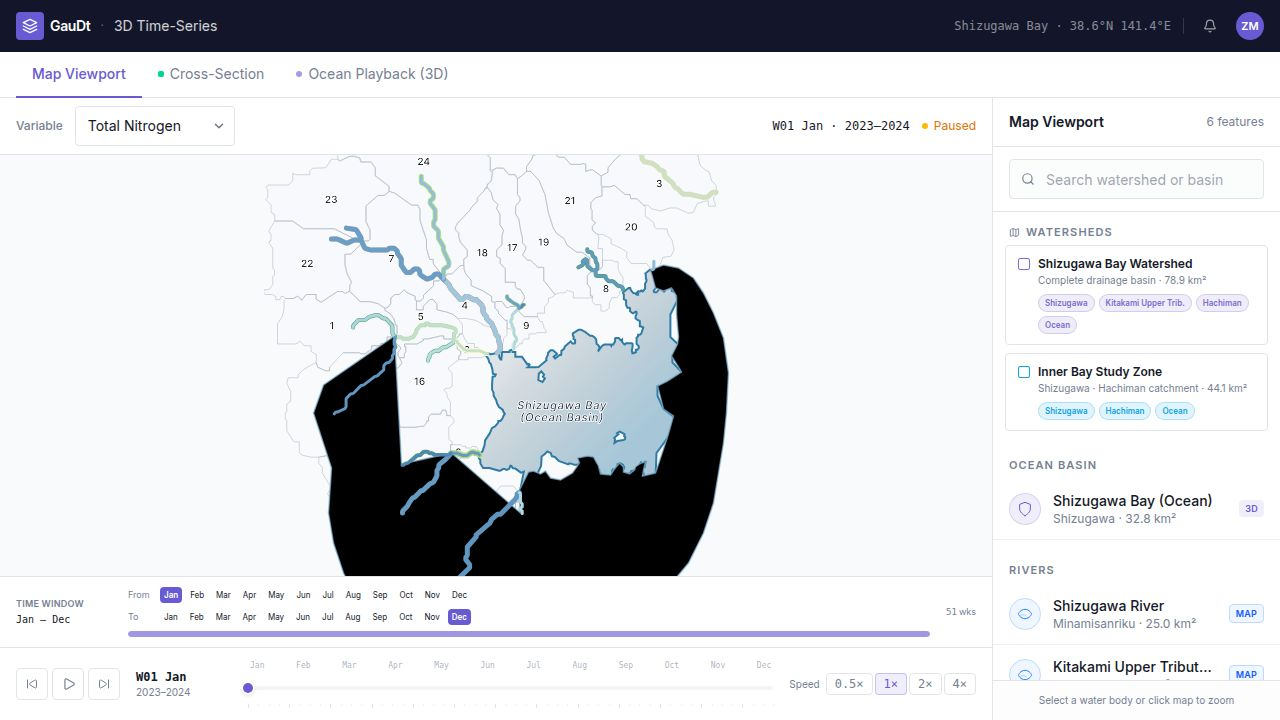
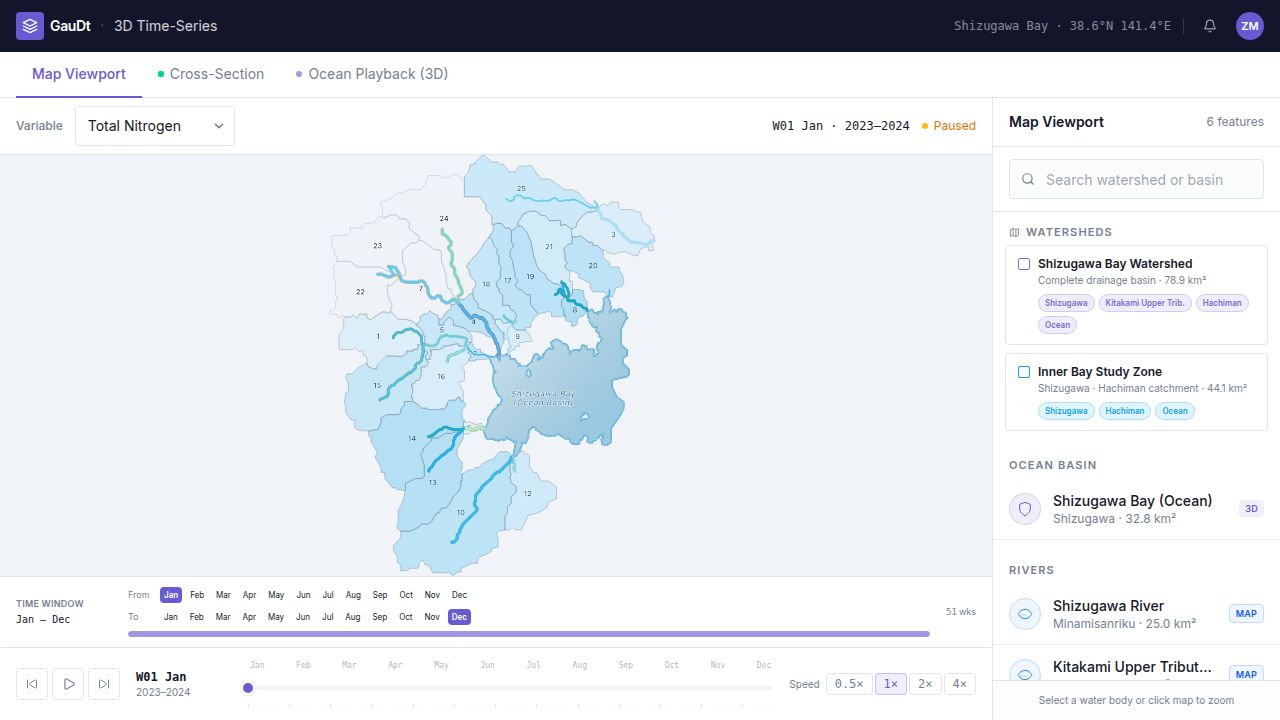
Improve river visualization with channel shape and light theme
Refactor MapLibreMap.tsx to introduce a sinusoidal channel mask, update the grid view to a light theme with axis labels and a color scale bar, and add new assets.

Replit-Commit-Author: Agent
Replit-Commit-Session-Id: 8693827f-14b7-436d-9b9c-498ef55eabf1
Replit-Commit-Checkpoint-Type: full_checkpoint
Replit-Commit-Event-Id: 4d6cc3bb-af46-47c2-bafe-19ac96c96382
Replit-Commit-Screenshot-Url: https://storage.googleapis.com/screenshot-production-us-central1/90904f4e-0e70-46ab-996a-5da4e407b058/8693827f-14b7-436d-9b9c-498ef55eabf1/CcHeKlI
Replit-Helium-Checkpoint-Created: true

Changed region(s): [[0.2188, 0.2139, 0.5938, 0.825], [0.5, 0.2139, 0.5625, 0.275]]

diff --git a/artifacts/shizugawa-dashboard/src/components/MapLibreMap.tsx b/artifacts/shizugawa-dashboard/src/components/MapLibreMap.tsx
@@ -59,6 +59,33 @@ function interpolateColor(stops: string[], t: number): string {
   return `#${r.toString(16).padStart(2, "0")}${g.toString(16).padStart(2, "0")}${b.toString(16).padStart(2, "0")}`;
 }
 
+// ── River channel mask (sinusoidal meander shape per river) ──────────────────
+
+function buildChannelMask(riverId: string): boolean[][] {
+  const seed = riverId === "shizugawa" ? 0 : riverId === "kitakami" ? 1 : 2;
+  const phase = seed * (Math.PI * 2 / 3);
+  const mask: boolean[][] = Array.from({ length: RIVER_ROWS }, () =>
+    new Array(RIVER_COLS).fill(false));
+  for (let col = 0; col < RIVER_COLS; col++) {
+    const t = col / (RIVER_COLS - 1);
+    const center = (RIVER_ROWS - 1) / 2 + (RIVER_ROWS * 0.28) * Math.sin(t * Math.PI * 1.5 + phase);
+    const halfW = 1.6 + 1.1 * Math.sin(t * Math.PI);
+    for (let row = 0; row < RIVER_ROWS; row++) {
+      if (Math.abs(row - center) <= halfW) mask[row][col] = true;
+    }
+  }
+  return mask;
+}
+
+const CHANNEL_MASKS: Record<string, boolean[][]> = {
+  shizugawa: buildChannelMask("shizugawa"),
+  kitakami:  buildChannelMask("kitakami"),
+  hachiman:  buildChannelMask("hachiman"),
+};
+
+// km per column (18 km total for 36 columns)
+const KM_PER_COL = 18 / RIVER_COLS;
+
 function computeOceanMean(week: number): number {
   const data = generateWeekData(week);
   let sum = 0, count = 0;
@@ -368,77 +395,120 @@ export default function MapLibreMap({
         })}
       </svg>
 
-      {/* Pixel grid view overlay */}
-      {showGrid && selectedRiver && gridData && (
-        <div className="absolute inset-0 bg-[#0f1923] flex flex-col p-4 gap-3">
-          {/* Header */}
-          <div className="flex items-center justify-between flex-shrink-0">
-            <div className="text-[10px] font-semibold text-slate-400 uppercase tracking-widest">
-              ← Upstream
-            </div>
-            <div className="text-center">
-              <div className="text-xs font-semibold text-white capitalize">
-                {selectedRiver.charAt(0).toUpperCase() + selectedRiver.slice(1)} River
-              </div>
-              <div className="text-[9px] text-slate-400">{variableLabel} · pixel grid ({RIVER_ROWS}×{RIVER_COLS})</div>
-            </div>
-            <div className="text-[10px] font-semibold text-slate-400 uppercase tracking-widest">
-              Downstream →
-            </div>
-          </div>
-
-          {/* Grid */}
-          <div className="flex-1 min-h-0 flex flex-col gap-0.5">
-            {/* Row labels */}
-            <div className="flex gap-px" style={{ paddingLeft: "2.5rem" }}>
-              {Array.from({ length: RIVER_COLS }, (_, col) => (
-                col % 6 === 0 ? (
-                  <div key={col} className="text-[7px] text-slate-500 font-mono"
-                    style={{ width: `${100 / RIVER_COLS}%`, flexShrink: 0 }}>
-                    {col}
-                  </div>
-                ) : <div key={col} style={{ width: `${100 / RIVER_COLS}%`, flexShrink: 0 }} />
-              ))}
-            </div>
-
-            {/* Pixel rows */}
-            {Array.from({ length: RIVER_ROWS }, (_, row) => (
-              <div key={row} className="flex items-center gap-px flex-1 min-h-0">
-                <div className="text-[8px] text-slate-500 font-mono w-8 flex-shrink-0 text-right pr-1">
-                  {row === 0 ? "surf" : row === RIVER_ROWS - 1 ? "bot" : row % 3 === 0 ? `r${row}` : ""}
+      {/* Pixel grid view overlay — light theme, channel shape, km axis */}
+      {showGrid && selectedRiver && gridData && (() => {
+        const mask = CHANNEL_MASKS[selectedRiver] ?? CHANNEL_MASKS.shizugawa;
+        // SVG coordinate system: each cell = 1 unit
+        const ML = 4.2; // left margin for Y labels
+        const MR = 0.6;
+        const MT = 0.8;
+        const MB = 3.8; // bottom margin for X labels + scale bar
+        const VW = ML + RIVER_COLS + MR;
+        const VH = MT + RIVER_ROWS + MB;
+        // Unique gradient ID per river to avoid collisions
+        const gradId = `cscale-${selectedRiver}`;
+        return (
+          <div className="absolute inset-0 bg-[#f8fafc] flex flex-col">
+            {/* Title bar */}
+            <div className="flex-shrink-0 flex items-center justify-between px-5 pt-3 pb-1">
+              <div>
+                <div className="text-xs font-semibold text-gray-700 capitalize">
+                  {selectedRiver.charAt(0).toUpperCase() + selectedRiver.slice(1)} River
                 </div>
-                {Array.from({ length: RIVER_COLS }, (_, col) => {
-                  const val = gridData[row]?.[col] ?? 0;
-                  const color = interpolateColor(stops, Math.max(0, Math.min(1, val)));
+                <div className="text-[9px] text-gray-400 mt-0.5">Raster channel · upstream → downstream</div>
+              </div>
+              <div className="text-[9px] text-gray-400 font-medium tracking-wide">
+                {RIVER_ROWS} × {RIVER_COLS} grid
+              </div>
+            </div>
+
+            {/* SVG grid */}
+            <div className="flex-1 min-h-0 px-4 pb-2">
+              <svg
+                width="100%" height="100%"
+                viewBox={`0 0 ${VW} ${VH}`}
+                preserveAspectRatio="xMidYMid meet"
+              >
+                <defs>
+                  <linearGradient id={gradId} x1="0" x2="1" y1="0" y2="0">
+                    {stops.map((c, i) => (
+                      <stop key={i} offset={`${(i / (stops.length - 1)) * 100}%`} stopColor={c} />
+                    ))}
+                  </linearGradient>
+                </defs>
+
+                {/* White grid background */}
+                <rect x={ML} y={MT} width={RIVER_COLS} height={RIVER_ROWS} fill="white"
+                  stroke="#e2e8f0" strokeWidth={0.04} rx={0.1} />
+
+                {/* Subtle column grid lines */}
+                {Array.from({ length: RIVER_COLS + 1 }, (_, i) => (
+                  <line key={i} x1={ML + i} y1={MT} x2={ML + i} y2={MT + RIVER_ROWS}
+                    stroke="#e2e8f0" strokeWidth={0.03} />
+                ))}
+                {/* Subtle row grid lines */}
+                {Array.from({ length: RIVER_ROWS + 1 }, (_, i) => (
+                  <line key={i} x1={ML} y1={MT + i} x2={ML + RIVER_COLS} y2={MT + i}
+                    stroke="#e2e8f0" strokeWidth={0.03} />
+                ))}
+
+                {/* Channel cells */}
+                {Array.from({ length: RIVER_ROWS }, (_, row) =>
+                  Array.from({ length: RIVER_COLS }, (_, col) => {
+                    const inCh = mask[row]?.[col] ?? false;
+                    if (!inCh) return null;
+                    const val = gridData[row]?.[col] ?? 0;
+                    return (
+                      <rect key={`${row}-${col}`}
+                        x={ML + col + 0.03} y={MT + row + 0.03}
+                        width={0.94} height={0.94}
+                        fill={interpolateColor(stops, Math.max(0, Math.min(1, val)))}
+                        rx={0.08}
+                      />
+                    );
+                  })
+                )}
+
+                {/* Y-axis labels */}
+                <text x={ML - 0.25} y={MT + 0.6} textAnchor="end" fontSize={0.68} fill="#94a3b8" fontFamily="monospace">N bank</text>
+                <text x={ML - 0.25} y={MT + RIVER_ROWS / 2 + 0.25} textAnchor="end" fontSize={0.68} fill="#94a3b8" fontFamily="monospace">thalweg</text>
+                <text x={ML - 0.25} y={MT + RIVER_ROWS - 0.05} textAnchor="end" fontSize={0.68} fill="#94a3b8" fontFamily="monospace">S bank</text>
+
+                {/* X-axis tick marks and km labels — every 6 columns = 3 km */}
+                {Array.from({ length: 7 }, (_, i) => {
+                  const col = i * 6;
+                  const km = (col * KM_PER_COL).toFixed(0);
                   return (
-                    <div
-                      key={col}
-                      title={`r${row} c${col}: ${val.toFixed(3)}`}
-                      style={{
-                        backgroundColor: color,
-                        width: `${100 / RIVER_COLS}%`,
-                        flexShrink: 0,
-                        height: "100%",
-                        borderRadius: 1,
-                      }}
-                    />
+                    <g key={i}>
+                      <line x1={ML + col} y1={MT + RIVER_ROWS} x2={ML + col} y2={MT + RIVER_ROWS + 0.3}
+                        stroke="#cbd5e1" strokeWidth={0.07} />
+                      <text x={ML + col} y={MT + RIVER_ROWS + 0.85} textAnchor="middle"
+                        fontSize={0.65} fill="#94a3b8" fontFamily="monospace">
+                        {km} km
+                      </text>
+                    </g>
                   );
                 })}
-              </div>
-            ))}
-          </div>
 
-          {/* Color scale bar */}
-          <div className="flex-shrink-0 flex items-center gap-2">
-            <span className="text-[8px] text-slate-500 font-mono">Low</span>
-            <div
-              className="flex-1 h-2 rounded"
-              style={{ background: `linear-gradient(to right, ${stops.join(", ")})` }}
-            />
-            <span className="text-[8px] text-slate-500 font-mono">High</span>
+                {/* X-axis direction label */}
+                <text x={ML + RIVER_COLS / 2} y={MT + RIVER_ROWS + 1.7} textAnchor="middle"
+                  fontSize={0.65} fill="#cbd5e1" fontFamily="sans-serif">
+                  ← upstream · downstream →
+                </text>
+
+                {/* Color scale bar */}
+                <rect x={ML} y={VH - 1.5} width={RIVER_COLS} height={0.55}
+                  fill={`url(#${gradId})`} rx={0.12} />
+                <text x={ML} y={VH - 0.75} fontSize={0.6} fill="#94a3b8" fontFamily="monospace">Low</text>
+                <text x={ML + RIVER_COLS} y={VH - 0.75} textAnchor="end" fontSize={0.6} fill="#94a3b8" fontFamily="monospace">High</text>
+                <text x={ML + RIVER_COLS / 2} y={VH - 0.75} textAnchor="middle" fontSize={0.6} fill="#94a3b8" fontFamily="sans-serif">
+                  {variableLabel}
+                </text>
+              </svg>
+            </div>
           </div>
-        </div>
-      )}
+        );
+      })()}
 
       {/* Ocean tooltip */}
       {hoveredOcean && (